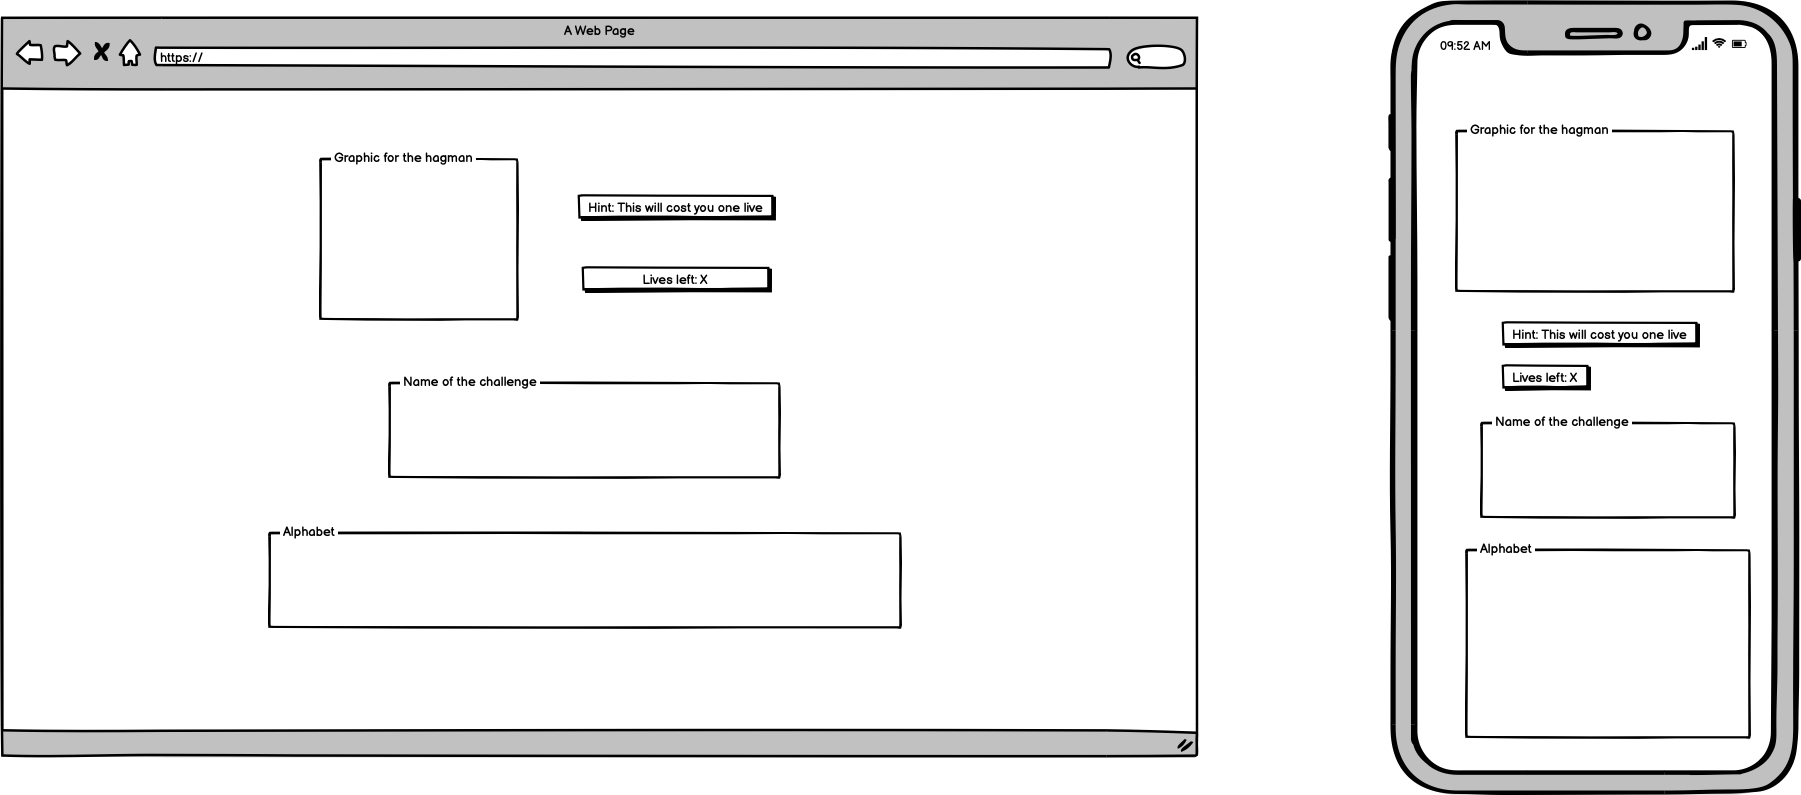
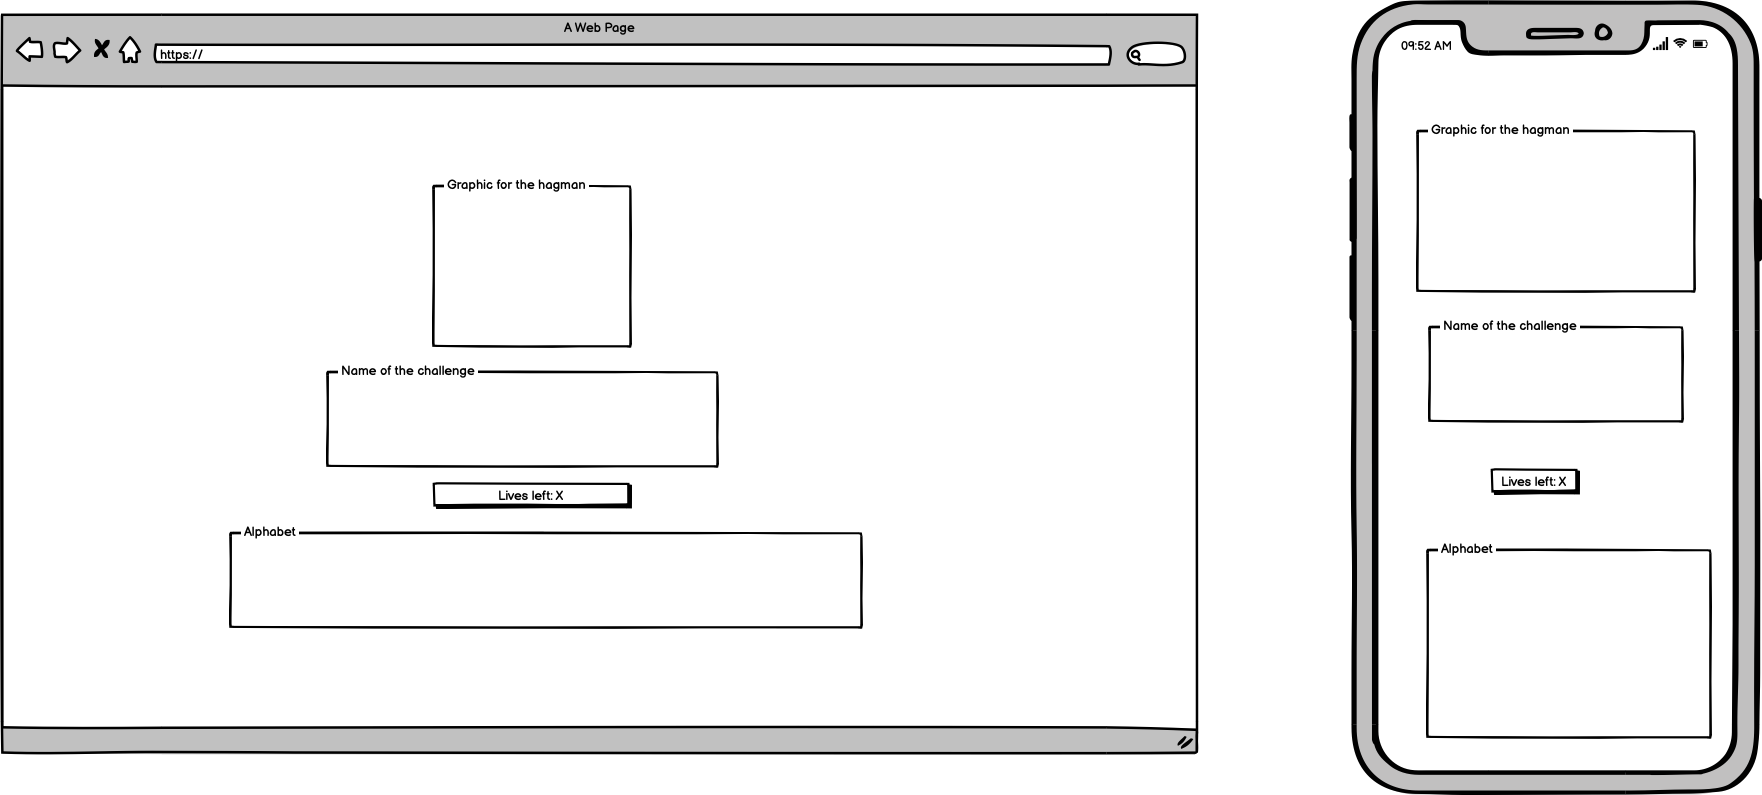
Add 404 page and updated Wireframes
Adding 404 for handling not found pages and
updating wireframes to reflect current features moved
to a future release.

diff --git a/404.html b/404.html
@@ -1,0 +1,14 @@
+<!DOCTYPE html>
+<html lang="en">
+<head>
+    <meta charset="UTF-8">
+    <meta http-equiv="X-UA-Compatible" content="IE=edge">
+    <meta name="viewport" content="width=device-width, initial-scale=1.0">
+    <title>The pages doesn't exist</title>
+</head>
+<body>
+
+    <h1>The page you are looking doesn't not exist!</h1>
+    <p>Press HERE to return to the main game page!</p>
+</body>
+</html>
